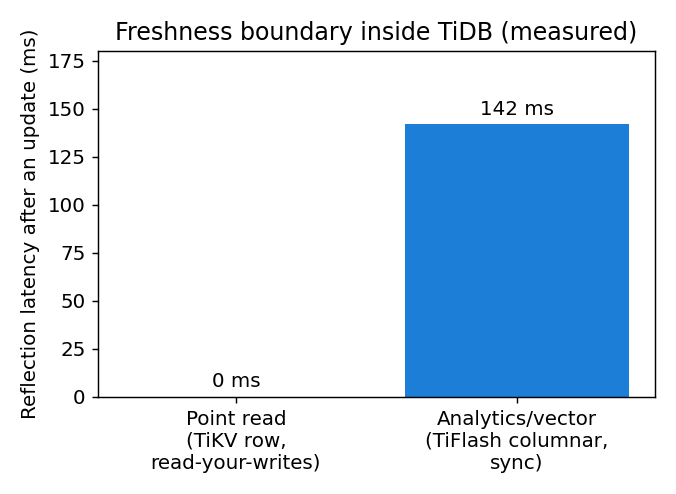
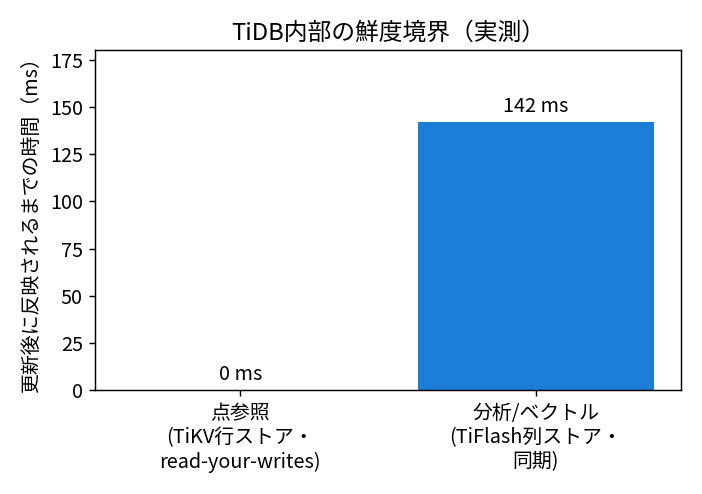
docs: 記事を最終版へ同期(鮮度測定の改題・検証マップ・@5図・HTAP二重保持図・図の日本語化・用語gloss)
- ARTICLE.mdをZenn正本に同期(画像は相対figures/パス)
- rt_charts.pyを日本語ラベル化、計測図5枚を再生成
- NANOBANANA/PUBLISHを概念図4点・新タイトルに整合

Changed region(s): [[0.0311, 0.0304, 0.9941, 0.9717]]

diff --git a/scripts/rt_charts.py b/scripts/rt_charts.py
@@ -1,10 +1,29 @@
 #!/usr/bin/env python3
-"""実測CSVから記事用グラフ(PNG)を生成。ラベルは英語（CJKフォント非依存）。"""
+"""実測CSVから記事用グラフ(PNG)を生成。ラベルは日本語。
+
+日本語フォントは環境にインストール済みのものを自動選択する
+（Noto Sans CJK JP / IPAexGothic 等）。無い場合は次でインストール可:
+    Debian/Ubuntu: sudo apt-get install -y fonts-noto-cjk
+フォントが見つからない場合は警告を出し、日本語が豆腐(□)になる。
+"""
 from __future__ import annotations
 import csv, os
 import matplotlib
 matplotlib.use("Agg")
 import matplotlib.pyplot as plt
+from matplotlib import font_manager as fm
+
+# 環境にある日本語フォントを優先順で探して設定（japanize-matplotlib不要）
+_JP_CANDIDATES = ("Noto Sans CJK JP", "IPAexGothic", "IPAGothic", "TakaoGothic", "VL Gothic")
+_installed = {f.name for f in fm.fontManager.ttflist}
+for _name in _JP_CANDIDATES:
+    if _name in _installed:
+        plt.rcParams["font.family"] = _name
+        break
+else:
+    print("WARN: 日本語フォントが見つかりません。ラベルが豆腐(□)になる可能性があります。"
+          " `sudo apt-get install -y fonts-noto-cjk` 等でインストールしてください。")
+plt.rcParams["axes.unicode_minus"] = False
 
 HERE = os.path.dirname(__file__)
 RES = os.path.join(HERE, "..", "docs", "results")
@@ -26,16 +45,16 @@ def chart_freshness_lines(fr):
     x = list(range(len(Ks)))
     active = [fr["active"][f"sync@{k}"] for k in Ks]
     uniform = [fr["uniform"][f"sync@{k}"] for k in Ks]
-    plt.figure(figsize=(6.4, 4))
+    plt.figure(figsize=(6.6, 4))
     plt.plot(x, active, "o-", color="#d6336c", lw=2.5, ms=8,
-             label="Before / active queries (ask about changing items)")
+             label="同期型・active（更新直後を質問＝上限）")
     plt.plot(x, uniform, "s--", color="#f08c00", lw=2, ms=7,
-             label="Before / uniform queries")
-    plt.axhline(0, color="#2b8a3e", lw=2.5, label="After (TiDB live) = 0%")
+             label="同期型・uniform（一様に質問）")
+    plt.axhline(0, color="#2b8a3e", lw=2.5, label="ライブ参照（TiDB）＝0%")
     plt.xticks(x, ["CDC(@1)", "@5", "@20", "@60"])
-    plt.xlabel("Sync interval (updates between syncs)")
-    plt.ylabel("Freshness error rate (%)")
-    plt.title("Stale-RAG freshness error vs sync interval")
+    plt.xlabel("同期間隔（何更新ごとに同期するか）")
+    plt.ylabel("鮮度誤答率（％）")
+    plt.title("同期遅延による鮮度誤答率 vs 同期間隔")
     plt.ylim(-3, 50)
     for xi, v in zip(x, active):
         plt.annotate(f"{v:.0f}%", (xi, v), textcoords="offset points", xytext=(0, 8), color="#d6336c")
@@ -46,7 +65,7 @@ def chart_freshness_lines(fr):
 
 
 def chart_htap():
-    # 正直版: rt_htap_scale.csv の実測（TiDB Cloud Zero, GROUP BY集計, 50k-500k）
+    # rt_htap_scale.csv の実測（TiDB Cloud Zero, GROUP BY集計, 50k-500k）
     rows = []
     with open(os.path.join(RES, "rt_htap_scale.csv"), encoding="utf-8") as f:
         for r in csv.DictReader(f):
@@ -56,28 +75,28 @@ def chart_htap():
     tiflash = [b for _, _, b in rows]
     x = range(len(labels)); w = 0.38
     plt.figure(figsize=(6.6, 4))
-    plt.bar([i - w/2 for i in x], tikv, w, label="TiKV (row)", color="#e8590c")
-    plt.bar([i + w/2 for i in x], tiflash, w, label="TiFlash (columnar)", color="#1c7ed6")
+    plt.bar([i - w/2 for i in x], tikv, w, label="TiKV（行ストア）", color="#e8590c")
+    plt.bar([i + w/2 for i in x], tiflash, w, label="TiFlash（列ストア）", color="#1c7ed6")
     plt.xticks(list(x), labels)
-    plt.xlabel("Rows (GROUP BY aggregation)")
-    plt.ylabel("Latency (ms)")
-    plt.title("Aggregation latency on TiDB Cloud Zero\n(no clear columnar advantage at this scale; network-bound)")
+    plt.xlabel("行数（GROUP BY 集計）")
+    plt.ylabel("レイテンシ（ms）")
+    plt.title("集計レイテンシ（TiDB Cloud Zero）\nこの規模では列ストアの明確な優位なし（ネットワーク律速）")
     plt.legend(fontsize=9)
     plt.tight_layout()
-    p = os.path.join(FIG, "fig4_htap_latency.png")
+    p = os.path.join(FIG, "fig5_htap_latency.png")
     plt.savefig(p); plt.close(); print("wrote", p)
 
 
 def chart_harm():
     # active利用100問の内訳: 正答57 / 危険な誤答(売切れを在庫ありと偽答)30 / その他誤答13
-    labels = ["Correct\n57", "Wrong: sold-out shown\nas IN-STOCK (dangerous)\n30", "Other\nwrong\n13"]
+    labels = ["正答\n57", "誤答：売り切れを\n在庫ありと回答（危険）\n30", "その他の\n誤答\n13"]
     vals = [57, 30, 13]
     colors = ["#2b8a3e", "#d6336c", "#f08c00"]
-    plt.figure(figsize=(6.4, 4))
+    plt.figure(figsize=(6.6, 4))
     b = plt.bar(labels, vals, color=colors)
     plt.bar_label(b, padding=3)
-    plt.ylabel("# of questions (out of 100)")
-    plt.title("Stale-RAG harm (active queries, sync@20):\n43/100 wrong, 30 falsely claim a sold-out item is available")
+    plt.ylabel("質問数（100問中）")
+    plt.title("同期遅延RAGの実害（active・同期@20）：\n100問中43問が誤答、うち30問は売り切れを在庫ありと回答")
     plt.ylim(0, 70)
     plt.tight_layout()
     p = os.path.join(FIG, "fig1b_harm.png")
@@ -92,25 +111,25 @@ def chart_interference():
     if rd and "effective_writes_per_s" in rd[0]:
         rows = [(int(r["writer_threads"]), float(r["effective_writes_per_s"]),
                  float(r["read_p50_ms"]), float(r["read_p95_ms"])) for r in rd]
-        labels = [f"{eff:.0f}/s\n({nw}w)" for nw, eff, _, _ in rows]
+        labels = [f"{eff:.0f}/秒\n(writer{nw})" for nw, eff, _, _ in rows]
         p50 = [a for _, _, a, _ in rows]; p95 = [b for _, _, _, b in rows]
-        xlabel = "Effective concurrent write load (updates/sec, #writer threads)"
-        title = "HTAP interference resistance:\nread latency stays flat as effective write load rises"
+        xlabel = "並行書き込み負荷（実効 更新/秒・writer数）"
+        title = "HTAP干渉耐性：\n実効書き込み負荷を上げても検索レイテンシは横ばい"
     else:  # 旧: 単一writer。目標レートと計測窓中の実書き込み数を正直に表示。
         rows = [(r["write_rate_per_s"], float(r["read_p50_ms"]), float(r["read_p95_ms"]),
                  int(r.get("writes_done", 0))) for r in rd]
-        labels = ["no writes" if r == "0" else f"target {r}/s\n({w} writes)" for r, _, _, w in rows]
+        labels = ["書き込みなし" if r == "0" else f"目標{r}/秒\n({w}件)" for r, _, _, w in rows]
         p50 = [a for _, a, _, _ in rows]; p95 = [b for _, _, b, _ in rows]
-        xlabel = "Concurrent writes during read window (single writer; actual count shown)"
-        title = ("HTAP interference: read latency flat under concurrent writes\n"
-                 "(provisional: single-writer load modest; parallel-writer re-run recommended)")
+        xlabel = "計測窓中の並行書き込み（単一writer・実書き込み数）"
+        title = ("HTAP干渉耐性：並行書き込み下でも検索レイテンシは横ばい\n"
+                 "（暫定：単一writerで負荷は控えめ。並列writerでの再計測を推奨）")
     x = range(len(labels))
-    plt.figure(figsize=(6.4, 4))
-    plt.plot(x, p95, "s--", color="#e8590c", lw=2, ms=7, label="read p95")
-    plt.plot(x, p50, "o-", color="#1c7ed6", lw=2.5, ms=8, label="read p50")
+    plt.figure(figsize=(6.6, 4))
+    plt.plot(x, p95, "s--", color="#e8590c", lw=2, ms=7, label="検索 p95")
+    plt.plot(x, p50, "o-", color="#1c7ed6", lw=2.5, ms=8, label="検索 p50")
     plt.xticks(list(x), labels, fontsize=9)
     plt.xlabel(xlabel, fontsize=9)
-    plt.ylabel("Live RAG read latency (ms)")
+    plt.ylabel("ライブRAG検索レイテンシ（ms）")
     plt.title(title, fontsize=10)
     plt.ylim(0, max(max(p95) * 1.15, 200))
     for xi, v in zip(x, p50):
@@ -123,16 +142,16 @@ def chart_interference():
 
 def chart_freshness_boundary():
     # 鮮度の境界: 点参照(TiKV)=即時 vs 分析/ベクトル(TiFlash)~142ms
-    labels = ["Point read\n(TiKV row,\nread-your-writes)", "Analytics/vector\n(TiFlash columnar,\nsync)"]
+    labels = ["点参照\n(TiKV行ストア・\nread-your-writes)", "分析/ベクトル\n(TiFlash列ストア・\n同期)"]
     vals = [0, 142]
-    plt.figure(figsize=(5.2, 3.8))
+    plt.figure(figsize=(5.4, 3.8))
     b = plt.bar(labels, vals, color=["#2b8a3e", "#1c7ed6"])
     plt.bar_label(b, fmt="%d ms", padding=3)
-    plt.ylabel("Reflection latency after an update (ms)")
-    plt.title("Freshness boundary inside TiDB (measured)")
+    plt.ylabel("更新後に反映されるまでの時間（ms）")
+    plt.title("TiDB内部の鮮度境界（実測）")
     plt.ylim(0, 180)
     plt.tight_layout()
-    p = os.path.join(FIG, "fig5_freshness_boundary.png")
+    p = os.path.join(FIG, "fig4_freshness_boundary.png")
     plt.savefig(p); plt.close(); print("wrote", p)
 
 

diff --git a/docs/NANOBANANA-PROMPTS.md b/docs/NANOBANANA-PROMPTS.md
@@ -1,7 +1,7 @@
 # 概念図の生成プロンプト（Nano Banana用）
 
-記事 `docs/ARTICLE.md` の概念図3点を生成するためのプロンプトです。
-データ図（fig1b_harm / fig2_freshness_error / fig5_freshness_boundary / fig4_htap_latency）は
+記事 `docs/ARTICLE.md` の概念図4点を生成するためのプロンプトです。
+データ図（fig1b_harm / fig2_freshness_error / fig4_freshness_boundary / fig5_htap_latency）は
 実測から matplotlib 生成済み（`docs/figures/`）。生成画像は Zenn の `images/realtime-rag-tidb/` に配置します。
 
 ---
@@ -21,7 +21,7 @@
 
 ---
 
-## diagram-02-architecture.png（図8：貼り合わせ vs 単一エンジン）
+## diagram-03-architecture.png（図8：貼り合わせ vs 単一エンジン）
 
 **目的**：「VectorDB＋RDB＋同期」の貼り合わせ（鮮度遅延あり）と TiDB単一エンジンを横並び比較し、3箱 vs 1箱を一目で示す。
 **構成**：
@@ -33,14 +33,14 @@
 
 ---
 
-## diagram-03-experiment-flow.png（図3：@5の具体例・同期の谷間で同期型が誤答）
+## diagram-02-experiment-flow.png（図3：@5の具体例・同期の谷間で同期型が誤答）
 
 **目的**：`@5`（5更新ごとに同期）の一例で、更新③で商品Aが 12→0 になった後、次の同期（更新⑤）までの「谷間」に質問が来ると、同期型RAG（スナップショット表）は古い「12個」と誤答し、ライブ参照（ライブ表）は「0個」と正答することを、具体的な数字で示す。
 **構成**：
 - 上部に左→右の水平な時間軸。**各目盛り（縦線）＝更新1件（在庫を変える操作）**で、左から ① ② ③ ④ ⑤ ⑥ と各目盛りの真下に通し番号を振る。軸の左上に小さく「在庫を変える操作（更新）を順に適用。1目盛り＝更新1件（全100件のうち先頭を抜粋）」と注記。更新③の目盛りに「商品A 12→0」、更新⑤の目盛りに「同期(@5)」マーカー。
 - 更新③〜更新⑤の区間を薄い赤帯で塗り「同期の谷間（誤答窓）」とラベル。帯の中に縦線で「質問: 商品Aは在庫ある？」マーカー。
 - 時間軸の下に2レーンの表ボックス：
-  - 上：「スナップショット表（同期型RAGが参照）」＝「商品A = 12個」を赤枠表示、右に吹き出し「『ある(12個)』→ 誤答（売り切れを在庫ありと回答）」。
+  - 上：「スナップショット表（同期型RAGが参照）」＝「商品A = 12個」を赤枠表示、右に吹き出し「『ある(12個)』→ 誤答（実際は売り切れ）」。※「誤答」の語は1回だけにする。
   - 下：「ライブ表（ライブ参照RAGが参照）」＝「商品A = 0個」を緑枠表示、右に吹き出し「『ない(0個)』→ 正答」。
 - 更新⑤の「同期(@5)」マーカーからスナップショット表へ点線矢印「同期で 12→0（以降は両者一致）」。
 - 下部に薄グレーの帯で「判定は在庫の値の照合のみ（LLM非介在）」と注記。
@@ -48,6 +48,25 @@
 **要素**：水平実線矢印（時間軸）/縦線＋丸（更新=グレー丸・質問=濃いグレー丸）/薄赤帯（谷間 #FBEAEA・境界#E74C3C）/角丸矩形2つ（スナップショット=赤枠#E74C3C・ライブ=緑枠#27AE60）/点線矢印（同期）/下部に薄グレー注記帯
 **吹き出し**：「ポイント: 同期の谷間だけ同期型が古い在庫で誤答する」（右上）
 **共通スタイル**：白背景、余白多め、Noto Sans JP、色は赤（#E74C3C）・緑（#27AE60）・グレー（#888888）の3色、影なし
+
+---
+
+## diagram-04-htap-stores.png（図5：HTAPの二重保持）
+
+**目的**：同じ1件のデータ（商品Aの在庫）が、行ストア(TiKV)と列ストア(TiFlash)の両方に保持され、更新は行ストアへ即時・列ストアへは少し遅れて同期される、という構造を示す。これが§4の「鮮度境界」が生まれる理由であることを直感的に伝える。
+**構成**（データの流れは「更新→行ストア→（同期）→列ストア」の一方向。更新が列ストアへ直接入る矢印は描かない）：
+- 中央上に「商品A 在庫 12→0」の更新の入口。
+- そこから**左下の行ストアだけ**へ下向きの実線矢印（緑）「書き込み（更新）＝即時反映」。※更新の入口から右（列ストア）への直接矢印は描かない。
+- その下に横並び2つのストア箱：
+  - 左「行ストア TiKV（書き込み・点参照）」＝「在庫 0（即時）」を表示（緑枠）。
+  - 右「列ストア TiFlash（分析・大規模ベクトル）」＝「在庫 0（同期後に反映）」を表示（紺枠）。
+- **行ストアから列ストアへ**点線矢印（グレー）「同期（~0.1s）」を1本だけ引く（列ストアはこの同期でのみ反映される）。
+- 2つの箱を薄い線で括り「同じ1件のデータを2つのストアで保持（HTAP）」とラベル。
+- 下部に一言「点参照は行ストア＝即時／分析・ベクトルは列ストア＝~0.1s級の遅れ＝鮮度境界」。
+**ラベル**：「商品A 在庫 12→0」「書き込み（更新）＝即時反映」「行ストア TiKV（点参照・即時）」「列ストア TiFlash（分析・ベクトル）」「在庫 0（即時）」「在庫 0（同期後に反映）」「同期（~0.1s）」「HTAP：1件を2ストアで保持」「鮮度境界」
+**要素**：上に更新の入口（角丸）／更新の入口→行ストアの実線矢印（緑・1本）／行ストア→列ストアの点線矢印（グレー#888888・1本）／横並び2つの角丸矩形（行ストア=緑枠#27AE60・列ストア=紺枠#003366）／2箱を囲む薄い括り線。**更新の入口から列ストアへ向かう矢印は無し。**
+**吹き出し**：「ポイント: 読む場所で反映タイミングが違う」（右上）
+**共通スタイル**：白背景、余白多め、Noto Sans JP、色は緑（#27AE60）・紺（#003366）・グレー（#888888）の3色、影なし
 
 ---
 

diff --git a/PUBLISH.md b/PUBLISH.md
@@ -1,15 +1,17 @@
 # 公開・Zenn投稿の手順
 
-このリポジトリは Zenn 記事「日本語RAGの『鮮度』を測る ── TiDBで踏んだ実装の落とし穴と測定方法」の
+このリポジトリは Zenn 記事「RAGの『鮮度』を測る ── TiDBで踏んだ実装の落とし穴（日本語全文・鮮度境界）と測定方法」の
 再現コード・実測データ・図一式です。記事本文は [`docs/ARTICLE.md`](./docs/ARTICLE.md)。
 
+> 注：`docs/ARTICLE.md` は GitHub 表示用に画像を相対パス `figures/...` で参照しています。
+> Zenn 公開時は画像パスを `/images/<記事slug>/...` に置き換えてください（下記手順）。
+
 ## Zenn 公開手順
-1. 概念図2枚を生成（[`docs/NANOBANANA-PROMPTS.md`](./docs/NANOBANANA-PROMPTS.md) のプロンプト）
-   → `diagram-01-timeline.png` / `diagram-02-architecture.png`。
-2. Zenn の `images/realtime-rag-tidb/` に、`docs/figures/*.png`（データ図）＋ 上記概念図2枚 を配置
-   （記事本文は `/images/realtime-rag-tidb/...` を参照）。
-3. `docs/ARTICLE.md` の「（リポジトリURL）」を、公開した GitHub リポジトリのURLに差し替え。
-4. `docs/ARTICLE.md` 本文を Zenn 記事にコピー → `published: true` → コンテストに応募。
+1. 概念図4枚を生成（[`docs/NANOBANANA-PROMPTS.md`](./docs/NANOBANANA-PROMPTS.md) のプロンプト）
+   → `diagram-01-timeline.png` / `diagram-02-experiment-flow.png` / `diagram-03-architecture.png` / `diagram-04-htap-stores.png`。
+2. Zenn の `images/<記事slug>/`（例: `images/20260611_tidb_realtime_rag/`）に、`docs/figures/*.png`（データ図5枚・日本語）＋ 上記概念図4枚 を配置。
+   記事本文の画像パスは `/images/<記事slug>/...` を参照。
+3. `docs/ARTICLE.md` の冒頭 `title:` と本文（画像パス）を Zenn 記事にコピー → リポジトリURLを確認 → `published: true` → コンテストに応募。
 
 ## 含まれるもの
 - `src/expagent/`：db / embed / rt / mem9（realtime-rag に必要な最小構成）
